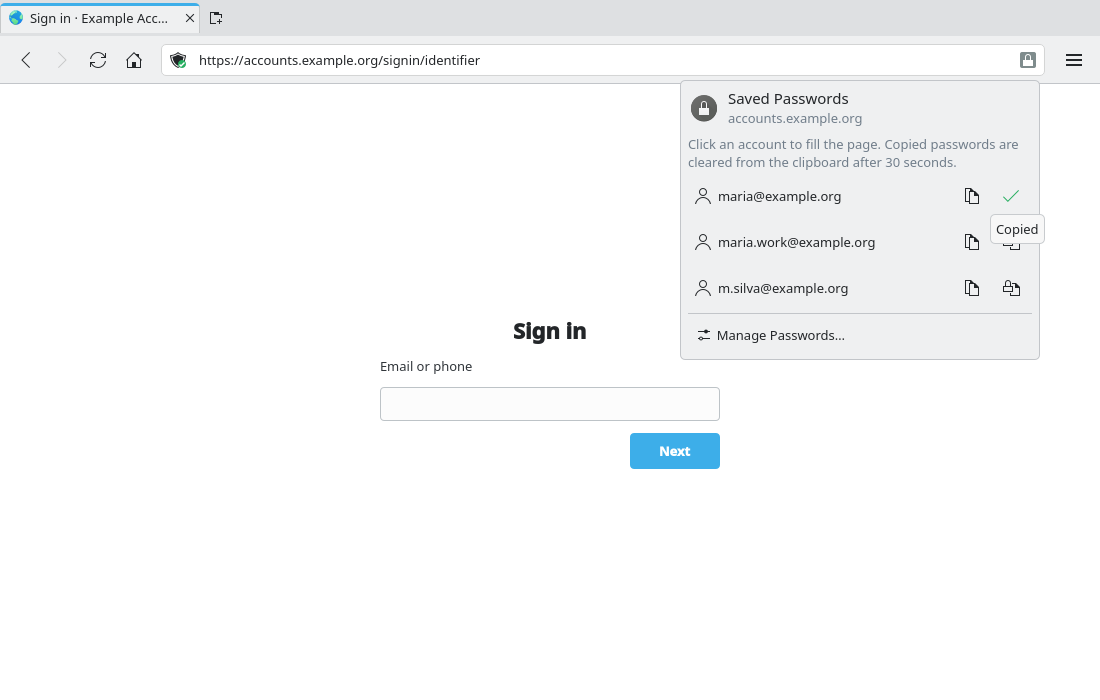
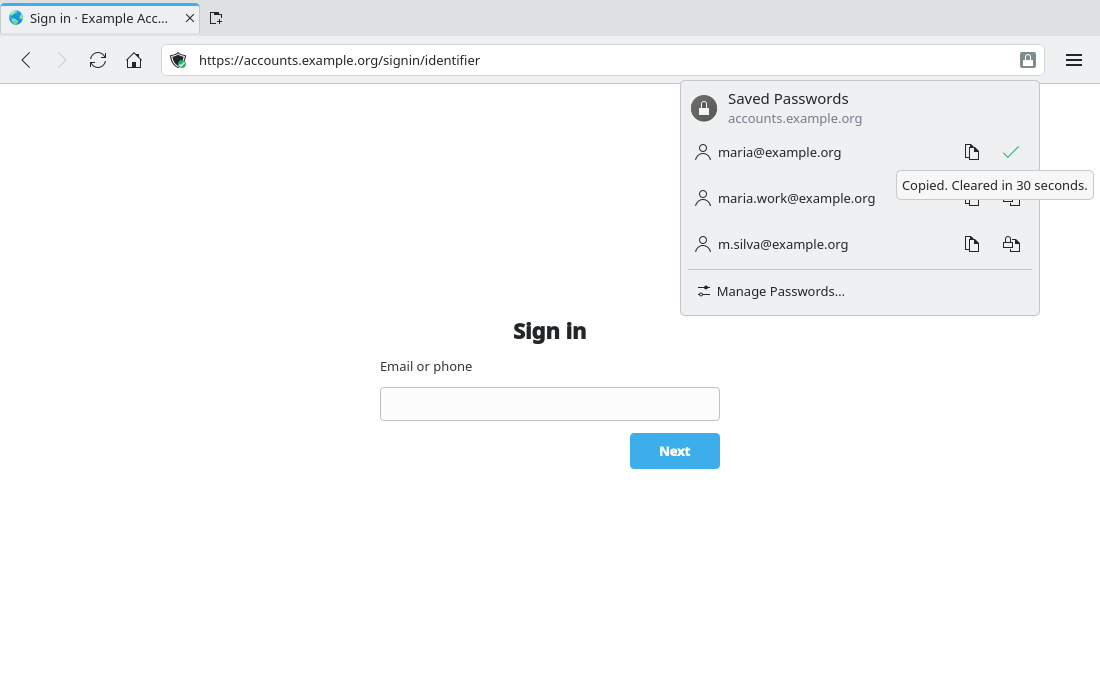
docs: drop the hint text from the #176 panel (show, don't tell)

diff --git a/prototypes/176-passwords-copy.qml b/prototypes/176-passwords-copy.qml
@@ -34,6 +34,8 @@ BrowserFrame {
 
     component AccountRow: ItemDelegate {
         id: row
+        ToolTip.text: "Fill"
+        ToolTip.delay: 600
         required property string username
         property bool passwordCopied: false
         Layout.fillWidth: true
@@ -60,7 +62,7 @@ BrowserFrame {
                 icon.width: Kirigami.Units.iconSizes.smallMedium
                 icon.height: Kirigami.Units.iconSizes.smallMedium
                 display: AbstractButton.IconOnly
-                ToolTip.text: row.passwordCopied ? "Copied" : "Copy Password"
+                ToolTip.text: row.passwordCopied ? "Copied. Cleared in 30 seconds." : "Copy Password"
                 Accessible.name: "Copy Password for " + row.username
             }
         }
@@ -84,13 +86,6 @@ BrowserFrame {
                     Label { text: "accounts.example.org"; color: Kirigami.Theme.disabledTextColor }
                 }
             }
-            Label {
-                Layout.fillWidth: true
-                Layout.topMargin: Kirigami.Units.smallSpacing
-                wrapMode: Text.WordWrap
-                color: Kirigami.Theme.disabledTextColor
-                text: "Click an account to fill the page. Copied passwords are cleared from the clipboard after 30 seconds."
-            }
             AccountRow { username: "maria@example.org"; passwordCopied: true }
             AccountRow { username: "maria.work@example.org" }
             AccountRow { username: "m.silva@example.org" }
@@ -101,9 +96,9 @@ BrowserFrame {
 
     ToolTip {
         popupType: Popup.Item
-        x: 990
-        y: 130
-        text: "Copied"
+        x: 905
+        y: 86
+        text: "Copied. Cleared in 30 seconds."
         Component.onCompleted: open()
     }
 }

diff --git a/.claude/skills/kde-ux/references/decisions.md b/.claude/skills/kde-ux/references/decisions.md
@@ -7,6 +7,7 @@ Add a row whenever a design is rejected in review or a UX bug is filed.
 | --- | --- | --- | --- |
 | #176 | "Copy Username" / "Copy Password" submenus under the Fill Saved Password menu | A `Popup` panel: one row per account (click fills), and `edit-copy` / `password-copy` icon buttons at the end of each row | The submenus listed every account three times, put the action before the account, hid copying behind hover and gave no feedback |
 | #176 | A green `Kirigami.InlineMessage` "Password copied…" | The copy button turns into `dialog-ok-apply` for 2 s, with the tooltip "Copied" and `Accessible.announce()` | The HIG shows success as a visual change on the item, and keeps messages for things that need attention |
+| #176 | A hint sentence in the panel ("Click an account to fill the page. Copied passwords are cleared…") | No hint text: a row tooltip "Fill", and "Copied. Cleared in 30 seconds." on the copy button after copying | Show, don't tell: the hover highlight and the icons already explain the panel |
 | #177 | A system notification at the end of a password import whenever the Passwords page is closed | Notify only when no Kondor window is active; otherwise show the result the next time the page opens | The HIG says no system notifications while the app is in the foreground |
 | #177 | A blocking import: the Import button looked stuck | Background work with a determinate `ProgressBar` ("%1 of %2 sites") | Show progress for anything longer than 1 s, and never freeze the UI |
 | #183 | A flat Extensions menu with every item of every extension | A two-level panel: one row per extension (switch for this site, arrow), its actions on level 2, and pinned extensions in the toolbar | 10 extensions made 40+ rows, and the menu closed after each action |

diff --git a/.claude/skills/kde-ux/SKILL.md b/.claude/skills/kde-ux/SKILL.md
@@ -57,7 +57,7 @@ Any UI the prototype does not show (states, errors, long text) is reviewed with 
     first.
 - **Icon-only buttons** need a Breeze icon, `ToolTip.text` with `ToolTip.delay: 600`, and
   `Accessible.name` (the same words).
-- **No important text only in a tooltip**: tooltips are invisible on touch and easy to miss.
+- **Tooltips carry details, not essentials.** Tooltips are invisible on touch and easy to miss. A detail the user can live without (for example "Cleared in 30 seconds") may live only in a tooltip and the accessible text. Anything the user must see to avoid losing data or doing harm stays visible.
 - **Keyboard:** everything works without a mouse: a sensible first focus, arrow keys in lists,
   Enter to activate, Esc to close popups, a visible focus ring.
 - **Theme:**

diff --git a/.claude/skills/kde-ux/references/checklist.md b/.claude/skills/kde-ux/references/checklist.md
@@ -29,7 +29,7 @@ with the fix.
       explanatory tooltips, form labels, checkboxes, placeholders and status text.
 - [ ] An ellipsis only for actions that need more input. It is the `…` character.
 - [ ] Imperative, short, no "you", important words first, no jargon (say "link", not "URL").
-- [ ] No important information only in a tooltip.
+- [ ] Only details go in tooltips. Anything needed to avoid data loss or harm is visible.
 - [ ] Every string is in `qsTr()` and still fits at +50% length.
 
 ## Keyboard, touch and screen reader
